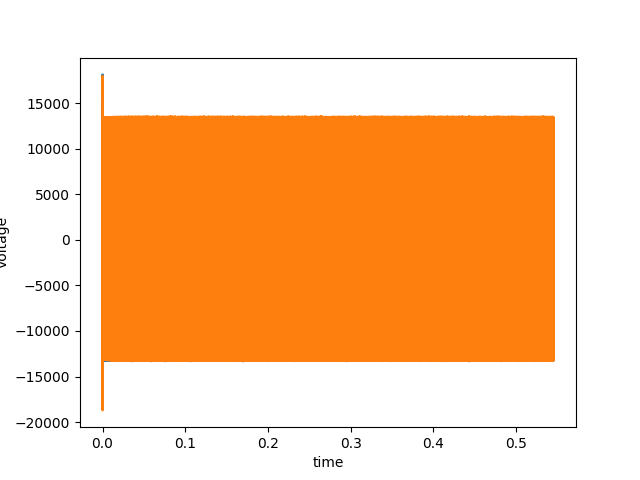
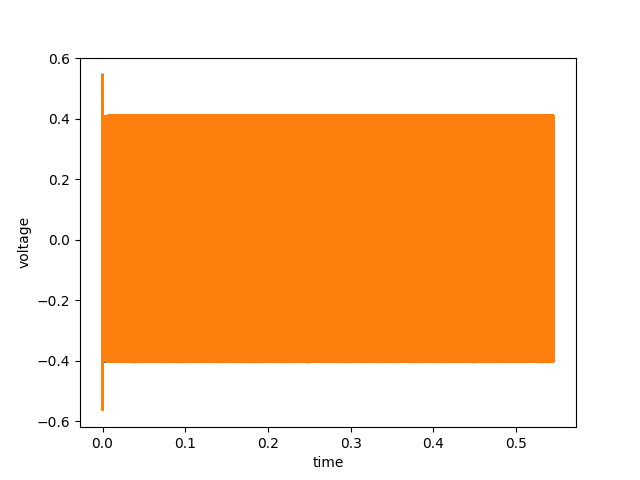
Removed old code

diff --git a/lib/graphassembly.cpp b/lib/graphassembly.cpp
@@ -341,131 +341,10 @@ void GraphAssembly::commitGraph(GraphSettings& graphSettings){
     UHD_LOG_INFO("CogRF", "Commit complete.");
 }
 
-void GraphAssembly::buildStreamsMultithread(GraphSettings& graphSettings, DeviceSettings& deviceSettings, SignalSettings& signalSettings){
-    //Build Streams for multithreaded implementation
-    //Each Channel gets its own RX streamer. 
 
-    // Constants related to the Replay block
-    const size_t replay_word_size = 8; // Size of words used by replay block
-    const size_t sample_size      = 4; // Complex signed 16-bit is 32 bits per sample
-    const size_t samples_per_word = 2; // Number of sc16 samples per word
 
-    uhd::device_addr_t streamer_args(deviceSettings.streamargs);
-    
-    
-
-    // create a receive streamer
-    // std::cout << "Samples per packet: " << spp << std::endl;
-    uhd::stream_args_t stream_args(signalSettings.format, signalSettings.otw); // We should read the wire format from the blocks
-    stream_args.args = streamer_args;
-    std::cout << "Using streamer args: " << stream_args.args.to_string() << std::endl;
-    
-    
-    //One stream per channel
-    for (int rx_count = 0; rx_count < graphSettings.radio_ctrls.size(); rx_count++){
-        graphSettings.rx_stream = graphSettings.graph->create_rx_streamer(1, stream_args);
-        graphSettings.rx_stream_vector.push_back(graphSettings.rx_stream);
-        }
-
-    /************************************************************************
-     * Set up streamer to Replay blocks
-     ***********************************************************************/
-
-    
-    for (int i_s2r = 0; i_s2r < graphSettings.replay_ctrls.size(); i_s2r = i_s2r + 2){
-        streamer_args["block_id"]   = graphSettings.replay_ctrls[i_s2r]->get_block_id().to_string();
-        streamer_args["block_port"] = std::to_string(0);
-        stream_args.args            = streamer_args;
-        stream_args.channels        = {0};
-        
-        graphSettings.tx_stream = graphSettings.graph->create_tx_streamer(stream_args.channels.size(), stream_args);
-        size_t tx_spp = graphSettings.tx_stream->get_max_num_samps();
-        //Make sure that stream SPP is a multiple of the Replay Block Word Size
-        if (tx_spp % samples_per_word != 0) {
-            // Round SPP down to a multiple of the word size
-            tx_spp = (tx_spp / samples_per_word) * samples_per_word;
-            streamer_args["spp"] = std::to_string(tx_spp);
-            stream_args.args     = streamer_args;
-            graphSettings.tx_stream = graphSettings.graph->create_tx_streamer(stream_args.channels.size(), stream_args);
-
-        }
-        // Vector of tx streamers, duplicate for vector length padding. 
-        graphSettings.tx_stream_vector.push_back(graphSettings.tx_stream);
-        graphSettings.tx_stream_vector.push_back(graphSettings.tx_stream);
-}
-}
 
 void GraphAssembly::connectGraphMultithread(GraphSettings& graphSettings){
-    //This is the function that connects the graph for the multithreaded implementation
-    //The difference is that each channel gets its own RX streamer. 
-
-    UHD_LOG_INFO("CogRF", "Connecting graph...");
-
-    //Connect Graph
-    for (int i = 0; i < graphSettings.radio_ctrls.size(); i++){
-        //connect radios to ddc
-        graphSettings.graph->connect(graphSettings.radio_block_list[i], 0, graphSettings.ddc_ctrls[i]->get_block_id(),0);
-        std::cout << "Connected "  << graphSettings.radio_block_list[i] << " to " << graphSettings.ddc_ctrls[i]->get_block_id() << std::endl;
-        graphSettings.graph->connect(graphSettings.ddc_ctrls[i]->get_block_id(), 0, graphSettings.rx_stream_vector[i],0);
-        std::cout << "Connected " << graphSettings.ddc_ctrls[i]->get_block_id() << " to " << graphSettings.rx_stream_vector[i] << " Port " << 0 << std::endl;
-    }
-
-    int pos2 = 0;
-    if (graphSettings.duc_ctrls.size() > 0){
-    
-        
-        for (auto& rctrl : graphSettings.radio_ctrls){
-            graphSettings.graph->connect(
-                graphSettings.duc_ctrls[pos2]->get_block_id(), graphSettings.duc_chan, rctrl->get_block_id(), 0);
-            std::cout << "Connected " << graphSettings.duc_ctrls[pos2]->get_block_id() << " port " 
-            << graphSettings.duc_chan << " to radio " << rctrl->get_block_id() << " port " << 0 << std::endl;
-            
-        
-            pos2++;
-            
-        }
-        //std::this_thread::sleep_for(std::chrono::milliseconds(1000));
-        
-        for (int i_r2d = 0; i_r2d < graphSettings.duc_ctrls.size(); i_r2d++){
-           
-            graphSettings.graph->connect(
-            graphSettings.replay_ctrls[i_r2d]->get_block_id(), graphSettings.replay_chan_vector[i_r2d], graphSettings.duc_ctrls[i_r2d]->get_block_id(), graphSettings.duc_chan);
-            
-                
-            std::cout << "Connected " <<  graphSettings.replay_ctrls[i_r2d]->get_block_id() << " port " 
-            << graphSettings.replay_chan_vector[i_r2d] << " to DUC " << graphSettings.duc_ctrls[i_r2d]->get_block_id() << " port " << graphSettings.duc_chan << std::endl;
-        
-        }
-        //std::this_thread::sleep_for(std::chrono::milliseconds(1000));
-
-    } else {
-        int pos2 = 0;
-        for (auto& replctrl : graphSettings.replay_ctrls){
-            for (auto& rctrl : graphSettings.radio_ctrls){
-                
-                    
-                graphSettings.graph->connect(replctrl->get_block_id(),
-                graphSettings.replay_chan_vector[pos2],rctrl->get_block_id(), 0);
-            
-                pos2++;
-                
-            }
-        }
-    }
-    for (int i_s2r = 0; i_s2r < graphSettings.replay_ctrls.size(); i_s2r = i_s2r + 2){
-        
-        graphSettings.graph->connect(graphSettings.tx_stream_vector[i_s2r], 0, graphSettings.replay_ctrls[i_s2r]->get_block_id(), 0);
-        std::cout << "Streamer: " << graphSettings.tx_stream_vector[i_s2r] << " connected to " << graphSettings.replay_ctrls[i_s2r]->get_block_id() << std::endl;
-        //std::this_thread::sleep_for(std::chrono::milliseconds(1000));
- 
-    }
-
-   
-
-}
-
-
-void GraphAssembly::connectGraphMultithread16(GraphSettings& graphSettings){
     //This is the function that connects the graph for the multithreaded implementation
     //The difference is that each channel gets its own RX streamer. 
 
@@ -541,7 +420,7 @@ void GraphAssembly::connectGraphMultithread16(GraphSettings& graphSettings){
 
 }
 
-void GraphAssembly::buildStreamsMultithread16(GraphSettings& graphSettings, DeviceSettings& deviceSettings, SignalSettings& signalSettings){
+void GraphAssembly::buildStreamsMultithread(GraphSettings& graphSettings, DeviceSettings& deviceSettings, SignalSettings& signalSettings){
     //Build Streams for multithreaded implementation
     //Each Channel gets its own RX streamer. 
 

diff --git a/tools/readDatFile.py b/tools/readDatFile.py
@@ -11,7 +11,7 @@ def parse_args():
     """
     Parse the command line arguments
     Example command line syntax:
-    python readDatFile.py -f "/mnt/md0/CW_2.000000_GHz_9132021_10360_test.dat/test.tx_00_rx_01_run_00_cw_2e+09_thread_0.dat" -s 250000000
+    python readDatFile.py -f "/mnt/md0/CW_2.000000_GHz_9132021_112841_test.dat/test.tx_00_rx_01_run_00_cw_2e+09_thread_0.dat" -s 250000000
     """
 
     parser = argparse.ArgumentParser()
@@ -31,8 +31,8 @@ def main():
     i,q = deinterleave_iq(data_array)
     time_scale = np.linspace(0,len(i)/args.sample_rate,len(i))
 
-    plt.plot(time_scale,i)
-    plt.plot(time_scale,q)
+    plt.plot(time_scale,i/(2**15-1))
+    plt.plot(time_scale,q/(2**15-1))
     plt.ylabel('voltage')
     plt.xlabel('time')
     plt.savefig("delme.png")

diff --git a/examples/rfnoc_txrx_loopback.cpp b/examples/rfnoc_txrx_loopback.cpp
@@ -143,13 +143,11 @@ int UHD_SAFE_MAIN(int argc, char* argv[])
     // Allow for some setup time
     //std::this_thread::sleep_for(std::chrono::milliseconds(1000));
     //Build Streams
-    GraphAssembly::buildStreamsMultithread16(graphStruct, device, signal);
+    GraphAssembly::buildStreamsMultithread(graphStruct, device, signal);
     //Connect Graph
-    GraphAssembly::connectGraphMultithread16(graphStruct, signal);
     //Commit Graph
     GraphAssembly::commitGraph(graphStruct);
      // Allow for some setup time
-    std::this_thread::sleep_for(std::chrono::milliseconds(1000));
     //Load Replay Block Buffers with data to transmit
     ReplayControl::importData(graphStruct, signal);
     //Sync time across devices

diff --git a/lib/recvtofile.hpp b/lib/recvtofile.hpp
@@ -303,7 +303,7 @@ void recvToFileMultithread(uhd::rx_streamer::sptr rx_stream,
     UHD_ASSERT_THROW(outfiles.size() == buffs.size());
     UHD_ASSERT_THROW(buffs.size() == rx_channel_nums.size());
     
-    std::cout << buffs.size() << std::endl;
+   
 
     //ofstream output_file(this_filename, ios::out | ios::binary);
     
@@ -360,7 +360,7 @@ void recvToFileMultithread(uhd::rx_streamer::sptr rx_stream,
         num_total_samps += num_rx_samps;
 
          for (size_t i = 0; i < outfiles.size(); i++) {
-            std::cout << "Buffer: " << i << std::endl;
+            
             outfiles[i]->write(
                 (const char*)buff_ptrs[i], num_rx_samps * sizeof(std::complex<short>));
         }

diff --git a/lib/graphassembly.hpp b/lib/graphassembly.hpp
@@ -17,8 +17,7 @@ class GraphAssembly
         static void commitGraph(GraphSettings& graphSettings);
         static void buildStreamsMultithread(GraphSettings& graphSettings, DeviceSettings& deviceSettings, SignalSettings& signalSettings);
         static void connectGraphMultithread(GraphSettings& graphSettings); 
-        static void connectGraphMultithread16(GraphSettings& graphSettings);//TODO: This is not used in any example. Review or Delete
-        static void buildStreamsMultithread16(GraphSettings& graphSettings, DeviceSettings& deviceSettings, SignalSettings& signalSettings);
+        
 };
 
 #endif
